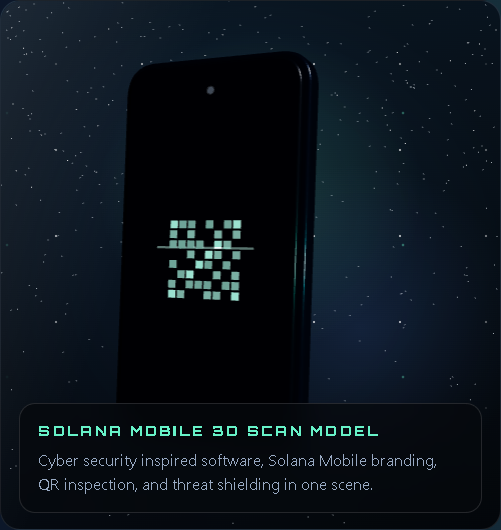
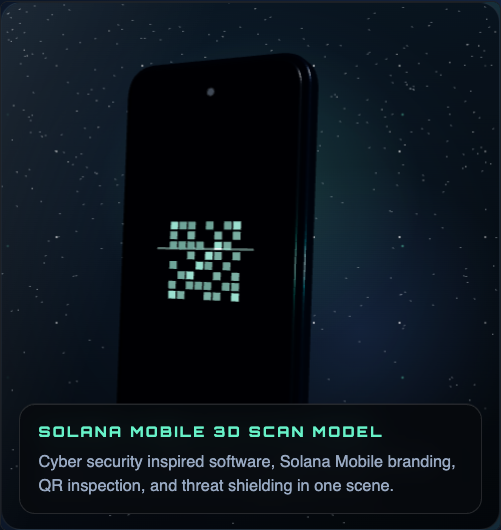
Update 3D fallback to opening model still

diff --git a/static/styles.css b/static/styles.css
@@ -74,7 +74,7 @@ body {
 .hero-metrics span { display: block; color: var(--accent); font-family: var(--display-font); font-size: 1rem; font-weight: 800; }
 .hero-metrics p { margin: 6px 0 0; color: var(--muted); font-size: 0.88rem; }
 .spline-showcase { min-height: 530px; padding: 0; overflow: hidden; transform-style: preserve-3d; background: #070b12; }
-.spline-showcase::before { content: ""; position: absolute; inset: 0; z-index: 0; pointer-events: none; opacity: 1; background: url("./safescan-3d-fallback.png") center / cover no-repeat; transition: opacity 0.42s ease; }
+.spline-showcase::before { content: ""; position: absolute; inset: 0; z-index: 0; pointer-events: none; opacity: 1; background: url("./safescan-3d-fallback.png?v=opening-model-v1") center / cover no-repeat; transition: opacity 0.42s ease; }
 .spline-showcase::after { content: none; }
 .three-scene { position: absolute; inset: 0; width: 100%; height: 100%; display: block !important; opacity: 1 !important; visibility: visible !important; cursor: grab; touch-action: none; z-index: 1 !important; }
 .three-scene:active { cursor: grabbing; }

diff --git a/templates/index.html b/templates/index.html
@@ -5,7 +5,7 @@
   <meta name="viewport" content="width=device-width, initial-scale=1.0">
   <title>SafeScan QR</title>
   <link rel="icon" href="/static/safescan-logo.svg" type="image/svg+xml">
-  <link rel="stylesheet" href="/static/styles.css?v=webgl-fallback-v1">
+  <link rel="stylesheet" href="/static/styles.css?v=opening-model-fallback-v1">
 </head>
 <body class="{{ 'test-site-page' if test_site else '' }}">
   <div class="page-shell">
